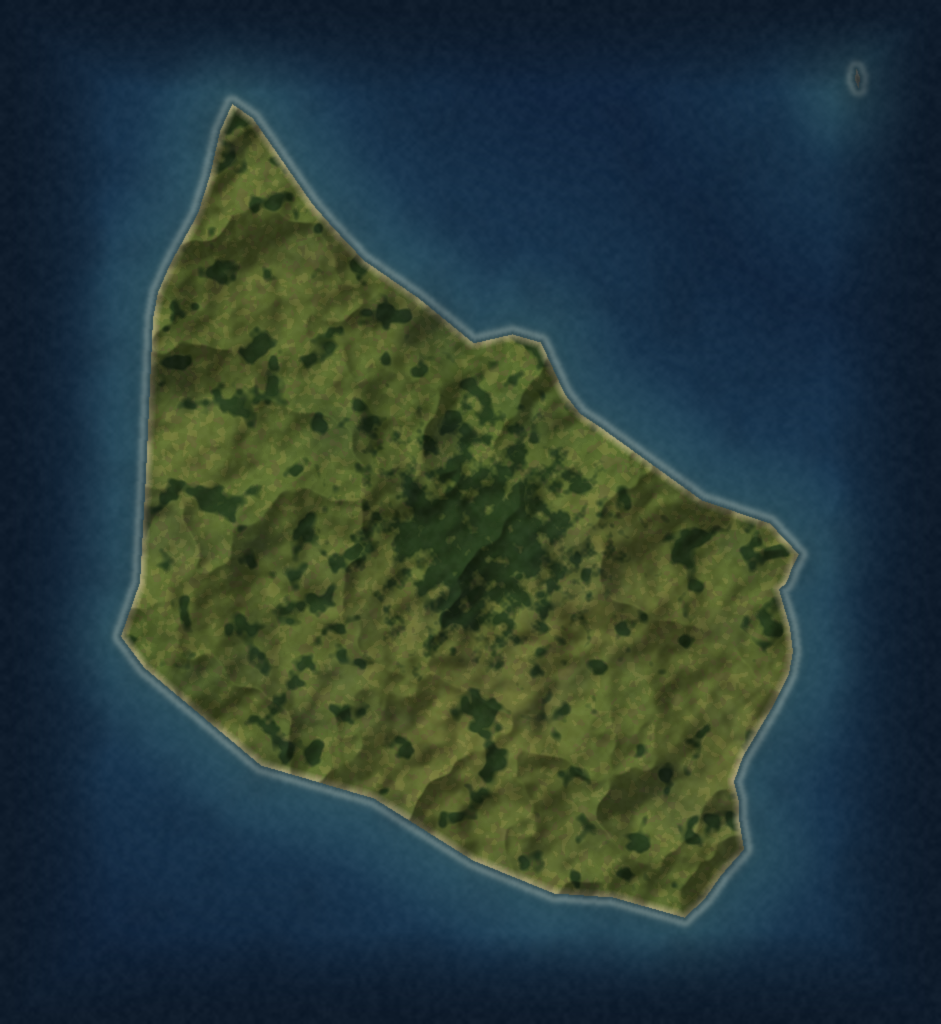
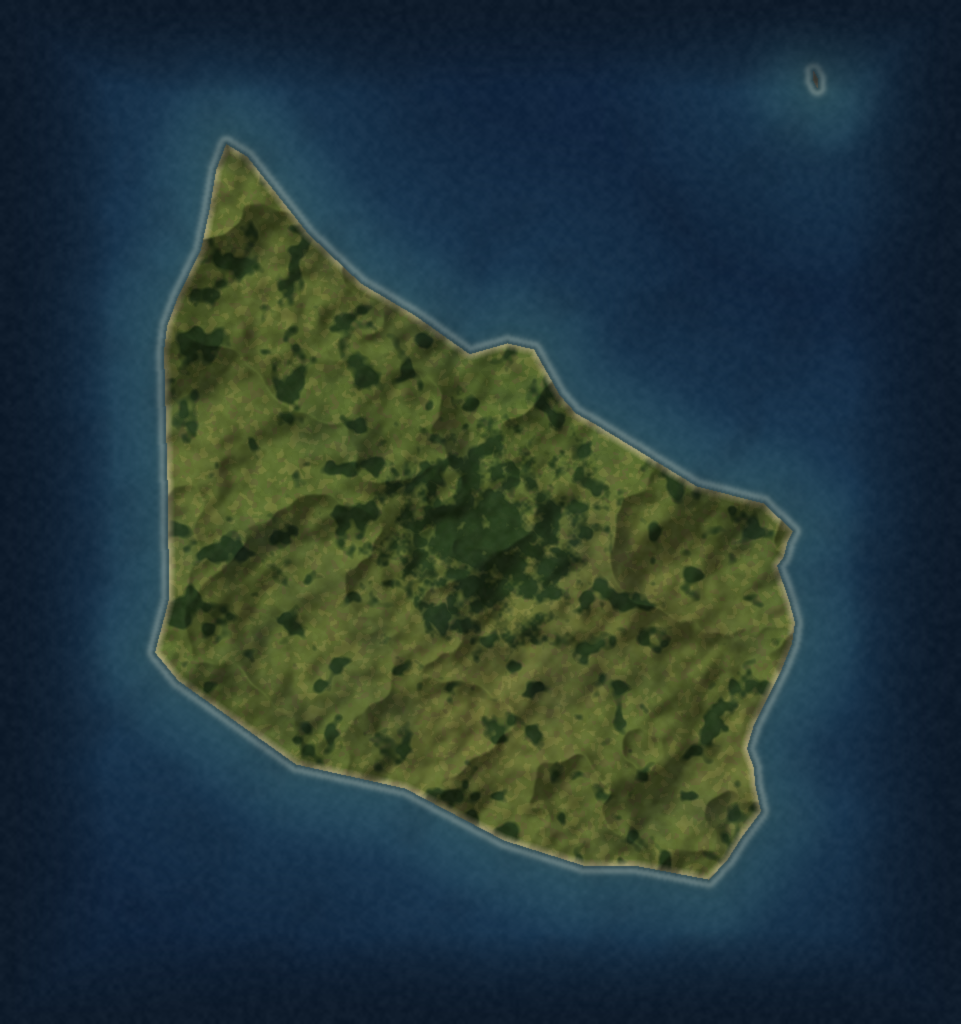
Switch the 1851 campaign map to a LAEA projection (v00.00.15)
The map generator and the Unity map now use Lambert Azimuthal Equal-Area
centred on 52N 10E (as EPSG:3035) instead of a scaled lon/lat grid, so the
same map can later grow from Denmark to Northern Europe or Europe without
distorting Scandinavia.

- build_map.py works in projected km, has named regions (--region) and an
  --out option, and writes projection, extentKm and bornholmKm to the JSON.
- Regenerated map textures and JSON for the denmark1851 region.
- Unity reads the projection for city, label and Bornholm-inset placement.

Changed region(s): [[0.1233, 0.0938, 0.8629, 0.9062], [0.8937, 0.0625, 0.9245, 0.0938], [0.8321, 0.0625, 0.8629, 0.0938]]

diff --git a/tools/map1851/build_map.py b/tools/map1851/build_map.py
@@ -7,7 +7,10 @@ Builds from Natural Earth 10m (public domain):
   Assets/Campaign1851/Resources/Map1851/Denmark1851_Regions.png  region ids (R channel), see REGION_*
   Assets/Campaign1851/Resources/Map1851/Denmark1851_Map.json     projection + cities + labels for Unity
 
-Usage: python build_map.py <natural-earth-dir> [--preview]
+Projection: Lambert Azimuthal Equal-Area centred on 52N 10E (as EPSG:3035, on a sphere), so the
+same map can grow from Denmark to Northern Europe or Europe by choosing a larger --region.
+
+Usage: python build_map.py <natural-earth-dir> [--region=denmark1851] [--height=4096] [--out=DIR] [--preview]
 """
 import json
 import math
@@ -23,18 +26,60 @@ from shp import read
 
 HERE = os.path.dirname(os.path.abspath(__file__))
 PROJECT = os.path.abspath(os.path.join(HERE, "..", ".."))
-OUT_DIR = os.path.join(PROJECT, "Assets", "Campaign1851", "Resources", "Map1851")
 
-# Map extent (WGS84) and projection: equirectangular, x scaled by cos(LAT0).
-LON_MIN, LON_MAX = 7.6, 13.6
-LAT_MIN, LAT_MAX = 53.25, 57.85
-LAT0 = (LAT_MIN + LAT_MAX) / 2
-KX = math.cos(math.radians(LAT0))
-KM_PER_DEG_LAT = 110.57
-# Override with --height N (e.g. 2048 when memory is tight). Full quality is 4096.
-HEIGHT_PX = int(next((a.split('=')[1] for a in __import__('sys').argv if a.startswith('--height=')), 4096))
+
+def arg(name, default):
+    return next((a.split("=", 1)[1] for a in sys.argv if a.startswith(f"--{name}=")), default)
+
+
+OUT_DIR = arg("out", os.path.join(PROJECT, "Assets", "Campaign1851", "Resources", "Map1851"))
+
+# ------------------------------------------------------------------ projection
+# Lambert Azimuthal Equal-Area on a sphere, centred like EPSG:3035 (ETRS89-LAEA Europe).
+PROJ_LAT0, PROJ_LON0, EARTH_R_KM = 52.0, 10.0, 6371.0088
+
+
+def project(lon, lat):
+    """lon/lat degrees -> x (east), y (north) in km. Works on scalars and numpy arrays."""
+    lam, phi = np.radians(np.asarray(lon, np.float64) - PROJ_LON0), np.radians(np.asarray(lat, np.float64))
+    phi0 = math.radians(PROJ_LAT0)
+    k = np.sqrt(2.0 / (1.0 + math.sin(phi0) * np.sin(phi) + math.cos(phi0) * np.cos(phi) * np.cos(lam)))
+    x = EARTH_R_KM * k * np.cos(phi) * np.sin(lam)
+    y = EARTH_R_KM * k * (math.cos(phi0) * np.sin(phi) - math.sin(phi0) * np.cos(phi) * np.cos(lam))
+    return x, y
+
+
+def unproject(x, y):
+    """x/y km -> lon, lat degrees (inverse LAEA)."""
+    x, y = np.asarray(x, np.float64), np.asarray(y, np.float64)
+    phi0 = math.radians(PROJ_LAT0)
+    rho = np.maximum(np.hypot(x, y), 1e-9)
+    c = 2.0 * np.arcsin(np.clip(rho / (2.0 * EARTH_R_KM), -1.0, 1.0))
+    lat = np.degrees(np.arcsin(np.cos(c) * math.sin(phi0) + y * np.sin(c) * math.cos(phi0) / rho))
+    lon = PROJ_LON0 + np.degrees(np.arctan2(x * np.sin(c), rho * math.cos(phi0) * np.cos(c) - y * math.sin(phi0) * np.sin(c)))
+    return lon, lat
+
+
+def box_extent(lon_min, lon_max, lat_min, lat_max):
+    """Projected km bounding box of a lon/lat box (its edges curve in LAEA, so sample them)."""
+    t = np.linspace(0.0, 1.0, 64)
+    lons = np.concatenate([lon_min + (lon_max - lon_min) * t, np.full(64, lon_max), lon_max - (lon_max - lon_min) * t, np.full(64, lon_min)])
+    lats = np.concatenate([np.full(64, lat_min), lat_min + (lat_max - lat_min) * t, np.full(64, lat_max), lat_max - (lat_max - lat_min) * t])
+    x, y = project(lons, lats)
+    return float(x.min()), float(x.max()), float(y.min()), float(y.max())
+
+
+# Named map regions (lon/lat boxes). Add larger ones (e.g. northern_europe) as the campaign grows.
+REGIONS = {
+    "denmark1851": (7.6, 13.6, 53.25, 57.85),
+}
+REGION = arg("region", "denmark1851")
+X_MIN, X_MAX, Y_MIN, Y_MAX = box_extent(*REGIONS[REGION])
+
+# Override with --height=N (e.g. 2048 when memory is tight). Full quality is 4096.
+HEIGHT_PX = int(arg("height", 4096))
 # Multiple of 4 so the GPU block compression can use it without padding.
-WIDTH_PX = int(round(HEIGHT_PX * (LON_MAX - LON_MIN) * KX / (LAT_MAX - LAT_MIN) / 4)) * 4
+WIDTH_PX = int(round(HEIGHT_PX * (X_MAX - X_MIN) / (Y_MAX - Y_MIN) / 4)) * 4
 
 # Size of one repeat of the close-zoom field detail texture.
 DETAIL_TILE_KM = 2.5
@@ -78,37 +123,47 @@ def boundary_lat(line, lon):
 
 
 class Raster:
-    def __init__(self, lon_min, lon_max, lat_min, lat_max, width, height):
-        self.lon_min, self.lon_max, self.lat_min, self.lat_max = lon_min, lon_max, lat_min, lat_max
+    """A pixel grid over a projected (LAEA km) rectangle. Row 0 is north."""
+
+    def __init__(self, x_min, x_max, y_min, y_max, width, height):
+        self.x_min, self.x_max, self.y_min, self.y_max = x_min, x_max, y_min, y_max
         self.w, self.h = width, height
+        self.km_per_px = (y_max - y_min) / height
 
     def to_px(self, lon, lat):
-        x = (lon - self.lon_min) / (self.lon_max - self.lon_min) * self.w
-        y = (self.lat_max - lat) / (self.lat_max - self.lat_min) * self.h
-        return x, y
+        x, y = project(lon, lat)
+        return (x - self.x_min) / (self.x_max - self.x_min) * self.w, (self.y_max - y) / (self.y_max - self.y_min) * self.h
+
+    def xy_grids(self):
+        """Projected km of every pixel centre."""
+        x = self.x_min + (np.arange(self.w) + 0.5) / self.w * (self.x_max - self.x_min)
+        y = self.y_max - (np.arange(self.h) + 0.5) / self.h * (self.y_max - self.y_min)
+        return np.meshgrid(x, y)
 
     def grids(self):
-        lon = self.lon_min + (np.arange(self.w) + 0.5) / self.w * (self.lon_max - self.lon_min)
-        lat = self.lat_max - (np.arange(self.h) + 0.5) / self.h * (self.lat_max - self.lat_min)
-        lon_g, lat_g = np.meshgrid(lon.astype(np.float32), lat.astype(np.float32))
-        return lon_g, lat_g
+        """lon/lat of every pixel centre (float32), for rules written in geographic terms."""
+        x, y = self.xy_grids()
+        lon, lat = unproject(x, y)
+        return lon.astype(np.float32), lat.astype(np.float32)
 
     def fill(self, shapes):
         """Rasterises polygon shapes (outer rings clockwise, holes counter-clockwise)."""
         img = Image.new("L", (self.w, self.h), 0)
         draw = ImageDraw.Draw(img)
-        bounds = (self.lon_min - 1, self.lon_max + 1, self.lat_min - 1, self.lat_max + 1)
+        margin = 0.05 * max(self.x_max - self.x_min, self.y_max - self.y_min)
         for parts in shapes:
             for ring in parts:
                 if len(ring) < 3:
                     continue
-                lons = [p[0] for p in ring]
-                lats = [p[1] for p in ring]
-                if max(lons) < bounds[0] or min(lons) > bounds[1] or max(lats) < bounds[2] or min(lats) > bounds[3]:
+                pts = np.asarray(ring, np.float64)
+                x, y = project(pts[:, 0], pts[:, 1])
+                if x.max() < self.x_min - margin or x.min() > self.x_max + margin or y.max() < self.y_min - margin or y.min() > self.y_max + margin:
                     continue
-                area = sum(ring[i][0] * ring[i - 1][1] - ring[i - 1][0] * ring[i][1] for i in range(len(ring)))
+                area = float(np.sum(pts[:, 0] * np.roll(pts[:, 1], 1) - np.roll(pts[:, 0], 1) * pts[:, 1]))
                 hole = area < 0  # counter-clockwise in lon/lat = hole in shapefile convention
-                draw.polygon([self.to_px(x, y) for x, y in ring], fill=0 if hole else 255)
+                px = (x - self.x_min) / (self.x_max - self.x_min) * self.w
+                py = (self.y_max - y) / (self.y_max - self.y_min) * self.h
+                draw.polygon(list(zip(px.tolist(), py.tolist())), fill=0 if hole else 255)
         return np.asarray(img) > 127
 
 
@@ -179,7 +234,7 @@ def rgb(*c):
 
 def paint(r, land, regions, lon, lat, seed):
     shape = land.shape
-    px_km = (r.lat_max - r.lat_min) * KM_PER_DEG_LAT / r.h
+    px_km = r.km_per_px
 
     # --- Distances (km) to the coast, on both sides.
     dist_sea = (ndimage.distance_transform_edt(~land) * px_km).astype(np.float32)   # sea pixels: distance to land
@@ -220,14 +275,12 @@ def paint(r, land, regions, lon, lat, seed):
     colour = lerp(colour, patch, np.full(shape, 0.32, np.float32))
 
     # Woodland: many small woods, more in the east, plus the major historic forests.
-    km_x = (lon - LON_MIN) * KX * 111.32
-    km_y = (lat - LAT_MIN) * KM_PER_DEG_LAT
+    km_x, km_y = r.xy_grids()
     forest_noise = fbm(shape, 45, 3, seed + 5)
     forest_mask = np.clip((forest_noise - (0.70 - 0.06 * eastness)) * 10, 0, 1)
     edge_noise = fbm(shape, 90, 3, seed + 9)
     for f_lon, f_lat, radius in FORESTS:
-        fx = (f_lon - LON_MIN) * KX * 111.32
-        fy = (f_lat - LAT_MIN) * KM_PER_DEG_LAT
+        fx, fy = project(f_lon, f_lat)
         d = np.sqrt((km_x - fx) ** 2 + (km_y - fy) ** 2) / radius
         # Ragged edges and clearings: the noise term dominates near the rim.
         forest_mask = np.maximum(forest_mask, np.clip((1.0 - d) * 2.2 + (edge_noise - 0.55) * 4.0, 0, 1))
@@ -327,8 +380,7 @@ def classify(r, land, dk, sh, lon, lat):
             continue
         cy = (slices[0].start + slices[0].stop) / 2
         cx = (slices[1].start + slices[1].stop) / 2
-        c_lon = r.lon_min + cx / r.w * (r.lon_max - r.lon_min)
-        c_lat = r.lat_max - cy / r.h * (r.lat_max - r.lat_min)
+        c_lon, c_lat = float(lon[int(cy), int(cx)]), float(lat[int(cy), int(cx)])
         if any(x0 <= c_lon <= x1 and y0 <= c_lat <= y1 for x0, x1, y0, y1 in island_boxes):
             schleswig_islands[slices] |= labels[slices] == index
     dk_schleswig = dk & ((jutland & south_of_kongeaa) | (~jutland & schleswig_islands))
@@ -376,11 +428,12 @@ def main():
     preview = "--preview" in sys.argv
     os.makedirs(OUT_DIR, exist_ok=True)
 
-    main_r = Raster(LON_MIN, LON_MAX, LAT_MIN, LAT_MAX, WIDTH_PX, HEIGHT_PX)
+    main_r = Raster(X_MIN, X_MAX, Y_MIN, Y_MAX, WIDTH_PX, HEIGHT_PX)
     colour, height, regions, land = build(ne_dir, main_r, 1864)
 
-    bh_w = int(round(1024 * (BORNHOLM[1] - BORNHOLM[0]) * KX / (BORNHOLM[3] - BORNHOLM[2])))
-    bh_r = Raster(BORNHOLM[0], BORNHOLM[1], BORNHOLM[2], BORNHOLM[3], bh_w, 1024)
+    bx0, bx1, by0, by1 = box_extent(*BORNHOLM)
+    bh_w = int(round(1024 * (bx1 - bx0) / (by1 - by0)))
+    bh_r = Raster(bx0, bx1, by0, by1, bh_w, 1024)
     bh_colour, _, _, _ = build(ne_dir, bh_r, 1865)
 
     Image.fromarray(colour).save(os.path.join(OUT_DIR, "Denmark1851_Color.png"))
@@ -398,15 +451,19 @@ def main():
     with open(os.path.join(HERE, "cities1850.json"), encoding="utf-8") as f:
         cities = json.load(f)
 
-    width_km = (LON_MAX - LON_MIN) * KX * 111.32
-    height_km = (LAT_MAX - LAT_MIN) * KM_PER_DEG_LAT
+    width_km, height_km = X_MAX - X_MIN, Y_MAX - Y_MIN
+    lon_min, lon_max, lat_min, lat_max = REGIONS[REGION]
     meta = {
-        "version": "v00.00.14",
-        "extent": {"lonMin": LON_MIN, "lonMax": LON_MAX, "latMin": LAT_MIN, "latMax": LAT_MAX},
+        "version": "v00.00.15",
+        "region": REGION,
+        "projection": {"type": "laea", "lat0": PROJ_LAT0, "lon0": PROJ_LON0, "radiusKm": EARTH_R_KM},
+        "extentKm": {"xMin": X_MIN, "xMax": X_MAX, "yMin": Y_MIN, "yMax": Y_MAX},
+        "extent": {"lonMin": lon_min, "lonMax": lon_max, "latMin": lat_min, "latMax": lat_max},
         "sizeKm": {"width": round(width_km, 2), "height": round(height_km, 2)},
         "textureSize": {"width": WIDTH_PX, "height": HEIGHT_PX},
         "detailTileKm": DETAIL_TILE_KM,
         "bornholm": {"lonMin": BORNHOLM[0], "lonMax": BORNHOLM[1], "latMin": BORNHOLM[2], "latMax": BORNHOLM[3]},
+        "bornholmKm": {"xMin": bx0, "xMax": bx1, "yMin": by0, "yMax": by1},
         "regions": {"0": "Hav", "1": "Kongeriget", "2": "Hertugdømmet Slesvig", "3": "Holsten og Lauenborg", "4": "Udland"},
         "cities": cities["cities"],
         "foreignCities": cities["foreign"],
@@ -437,7 +494,7 @@ def main():
 
     if preview:
         Image.fromarray(colour).resize((WIDTH_PX // 4, HEIGHT_PX // 4), Image.LANCZOS).save(os.path.join(HERE, "preview.png"))
-    print(f"map {WIDTH_PX}x{HEIGHT_PX} px, {width_km:.0f}x{height_km:.0f} km, {height_km / HEIGHT_PX * 1000:.0f} m/px")
+    print(f"map {REGION}: {WIDTH_PX}x{HEIGHT_PX} px, {width_km:.0f}x{height_km:.0f} km (LAEA), {height_km / HEIGHT_PX * 1000:.0f} m/px")
 
 
 if __name__ == "__main__":

diff --git a/Assets/Campaign1851/Scripts/CampaignMap1851Data.cs b/Assets/Campaign1851/Scripts/CampaignMap1851Data.cs
@@ -4,6 +4,7 @@ using UnityEngine;
 // Data contract for the painted 1851 campaign map.
 // Generated by tools/map1851/build_map.py into Resources/Map1851/Denmark1851_Map.json.
 
+/// <summary>Geographic box of the region (informational since v00.00.15).</summary>
 [Serializable]
 public sealed class Map1851Extent
 {
@@ -11,10 +12,44 @@ public sealed class Map1851Extent
     public float lonMax;
     public float latMin;
     public float latMax;
+}
 
-    public Vector2 ToUv(float lat, float lon)
+/// <summary>
+/// Lambert Azimuthal Equal-Area on a sphere (as EPSG:3035, centre 52N 10E); must match
+/// tools/map1851/build_map.py, which paints the map in the same projection.
+/// </summary>
+[Serializable]
+public sealed class Map1851Projection
+{
+    public string type = "laea";
+    public double lat0 = 52.0;
+    public double lon0 = 10.0;
+    public double radiusKm = 6371.0088;
+
+    /// <summary>Degrees -> projected km (x east, y north).</summary>
+    public Vector2 Forward(double lat, double lon)
     {
-        return new Vector2((lon - lonMin) / (lonMax - lonMin), (lat - latMin) / (latMax - latMin));
+        double lam = (lon - lon0) * Math.PI / 180.0, phi = lat * Math.PI / 180.0, phi0 = lat0 * Math.PI / 180.0;
+        double k = Math.Sqrt(2.0 / (1.0 + Math.Sin(phi0) * Math.Sin(phi) + Math.Cos(phi0) * Math.Cos(phi) * Math.Cos(lam)));
+        return new Vector2((float)(radiusKm * k * Math.Cos(phi) * Math.Sin(lam)),
+                           (float)(radiusKm * k * (Math.Cos(phi0) * Math.Sin(phi) - Math.Sin(phi0) * Math.Cos(phi) * Math.Cos(lam))));
+    }
+}
+
+/// <summary>A projected rectangle (km) covered by a map texture.</summary>
+[Serializable]
+public sealed class Map1851ExtentKm
+{
+    public double xMin;
+    public double xMax;
+    public double yMin;
+    public double yMax;
+
+    /// <summary>0..1 across the rectangle; u east, v north.</summary>
+    public Vector2 ToUv(Map1851Projection projection, float lat, float lon)
+    {
+        Vector2 p = projection.Forward(lat, lon);
+        return new Vector2((float)((p.x - xMin) / (xMax - xMin)), (float)((p.y - yMin) / (yMax - yMin)));
     }
 }
 
@@ -50,6 +85,10 @@ public sealed class Map1851Label
 public sealed class Map1851Data
 {
     public string version;
+    public string region;
+    public Map1851Projection projection;
+    public Map1851ExtentKm extentKm;
+    public Map1851ExtentKm bornholmKm;
     public Map1851Extent extent;
     public Map1851Size sizeKm;
     public float detailTileKm;

diff --git a/Assets/Campaign1851/Scripts/CampaignMap1851.cs b/Assets/Campaign1851/Scripts/CampaignMap1851.cs
@@ -13,7 +13,7 @@ using UnityEngine.SceneManagement;
 public sealed class CampaignMap1851 : MonoBehaviour
 {
     public const string SceneName = "CampaignMap1851";
-    public const string Version = "v00.00.14 MALET DANMARKSKORT 1851 DEV";
+    public const string Version = "v00.00.15 MALET DANMARKSKORT 1851 (LAEA) DEV";
 
     private const string ResourceFolder = "Map1851/";
     private const float HeightScale = 3f;   // ~18x vertical exaggeration; Danish relief reads at close zoom
@@ -78,7 +78,7 @@ public sealed class CampaignMap1851 : MonoBehaviour
 
     public Vector3 Project(float lat, float lon)
     {
-        Vector2 uv = Data.extent.ToUv(lat, lon);
+        Vector2 uv = Data.extentKm.ToUv(Data.projection, lat, lon);
         float x = (uv.x - 0.5f) * Data.sizeKm.width;
         float z = (uv.y - 0.5f) * Data.sizeKm.height;
         return new Vector3(x, SampleHeight(uv), z);

diff --git a/Assets/Campaign1851/Scripts/CampaignMap1851Ui.cs b/Assets/Campaign1851/Scripts/CampaignMap1851Ui.cs
@@ -369,7 +369,7 @@ public sealed class CampaignMap1851Ui : MonoBehaviour
         {
             if (!c.bornholm)
                 continue;
-            Vector2 uv = map.Data.bornholm.ToUv(c.lat, c.lon);
+            Vector2 uv = map.Data.bornholmKm.ToUv(map.Data.projection, c.lat, c.lon);
             var pos = new Vector2((uv.x - 0.5f) * imageRect.sizeDelta.x, (uv.y - 0.5f) * imageRect.sizeDelta.y);
             var dot = NewImage(NewRect("Dot", imageRect, new Vector2(0.5f, 0.5f), new Vector2(0.5f, 0.5f), new Vector2(0.5f, 0.5f), pos, new Vector2(11f, 11f)), CityRed);
             dot.sprite = circle;

diff --git a/docs/releases/CAMPAIGN-v00.00.15-LAEA-PROJEKTION-NOTES.md b/docs/releases/CAMPAIGN-v00.00.15-LAEA-PROJEKTION-NOTES.md
@@ -1,0 +1,30 @@
+# PROJECT 1864 Campaign v00.00.15 — LAEA-PROJEKTION (klar til Europa)
+
+Status: DEV / MAP-ONLY / kanal `channel-campaign5`. Batch-rendereret QA i Unity 6000.6.0f1.
+
+## Hovedændring
+
+Kortet skifter fra en simpel lige-bredde-projektion (lon/lat skaleret med cos(bredde)) til
+**Lambert Azimuthal Equal-Area** på en kugle med centrum 52° N, 10° Ø, samme opsætning som
+EPSG:3035 (ETRS89-LAEA Europe). Dermed kan samme kort senere vokse fra Danmark til Nordeuropa eller Europa
+uden at forvrænge Skandinavien og Østeuropa.
+
+## Implementeret
+
+- `tools/map1851/build_map.py`
+  - `project()` / `unproject()` (LAEA) og `box_extent()`; rasteren arbejder i projicerede km.
+  - Navngivne udsnit i `REGIONS` (i dag `denmark1851`), valgt med `--region=`; `--out=` til output-mappe.
+  - JSON: `projection`, `extentKm` og `bornholmKm` (km). `extent`/`bornholm` i lon/lat er bevaret som information.
+  - Udsnittet `denmark1851` er nu 399 × 517 km (3164 × 4096 px, 126 m/px).
+- Unity: `Map1851Projection`, `Map1851ExtentKm`; `Project()` og Bornholm-indsatsen bruger projektionen.
+- Samme projektion er implementeret i Unreal-porten (`FCampaign1851Projection`).
+
+## Ikke ændret
+
+- Maling, byer, stednavne, UI og kamera.
+- `CampaignMap` (v13n Cesium), campaign simulation og Tactical TEST.
+
+## Næste trin (ikke startet)
+
+Et `northern_europe`-udsnit kræver fliser/virtual textures i stedet for én tekstur samt historiske
+grænser for 1851 (Det Tyske Forbund, Preussen, Østrig, Sverige-Norge m.fl.).
